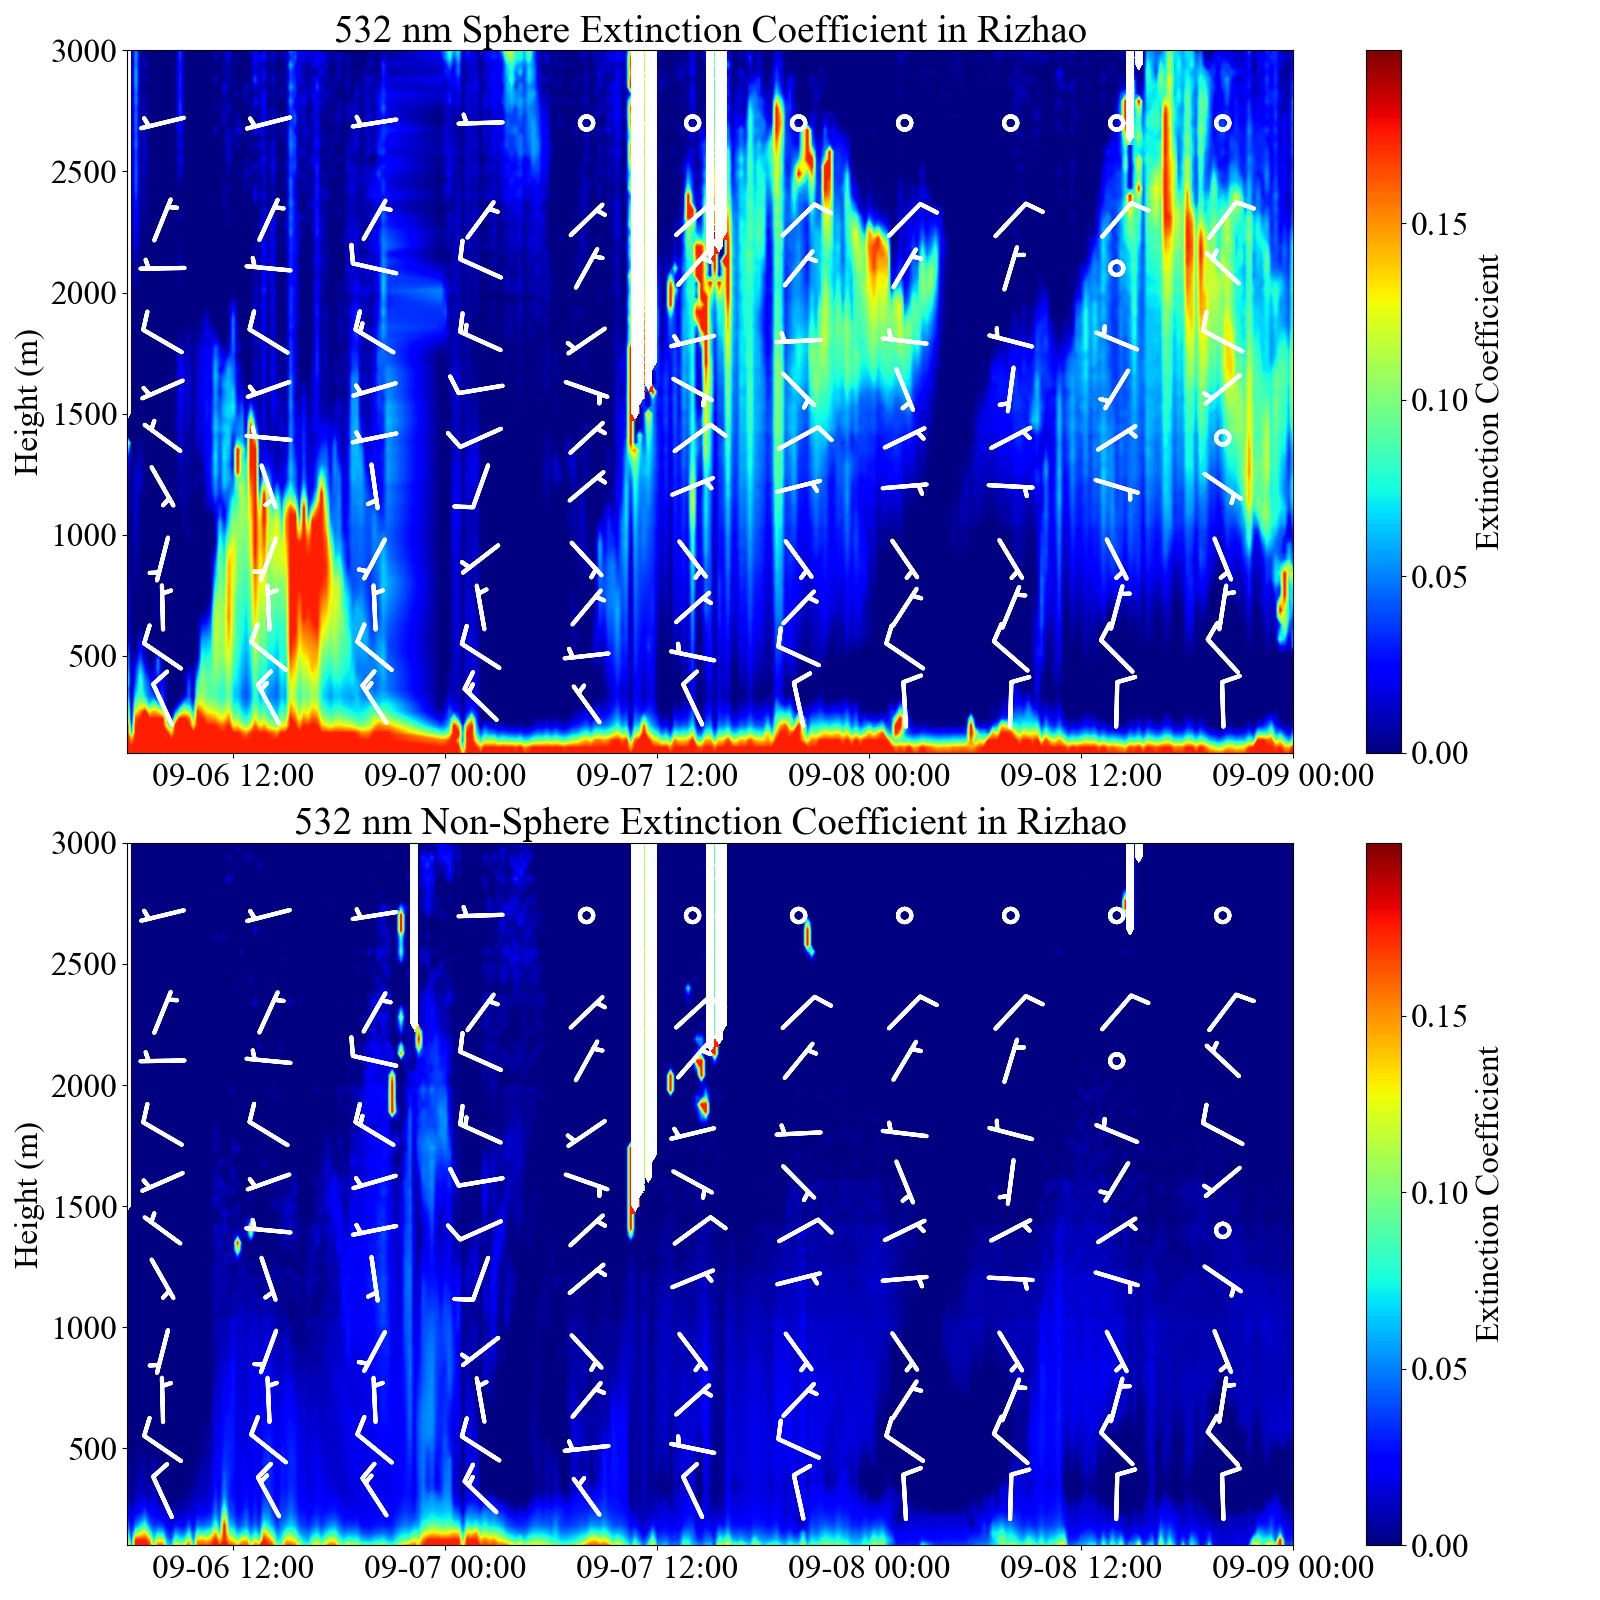
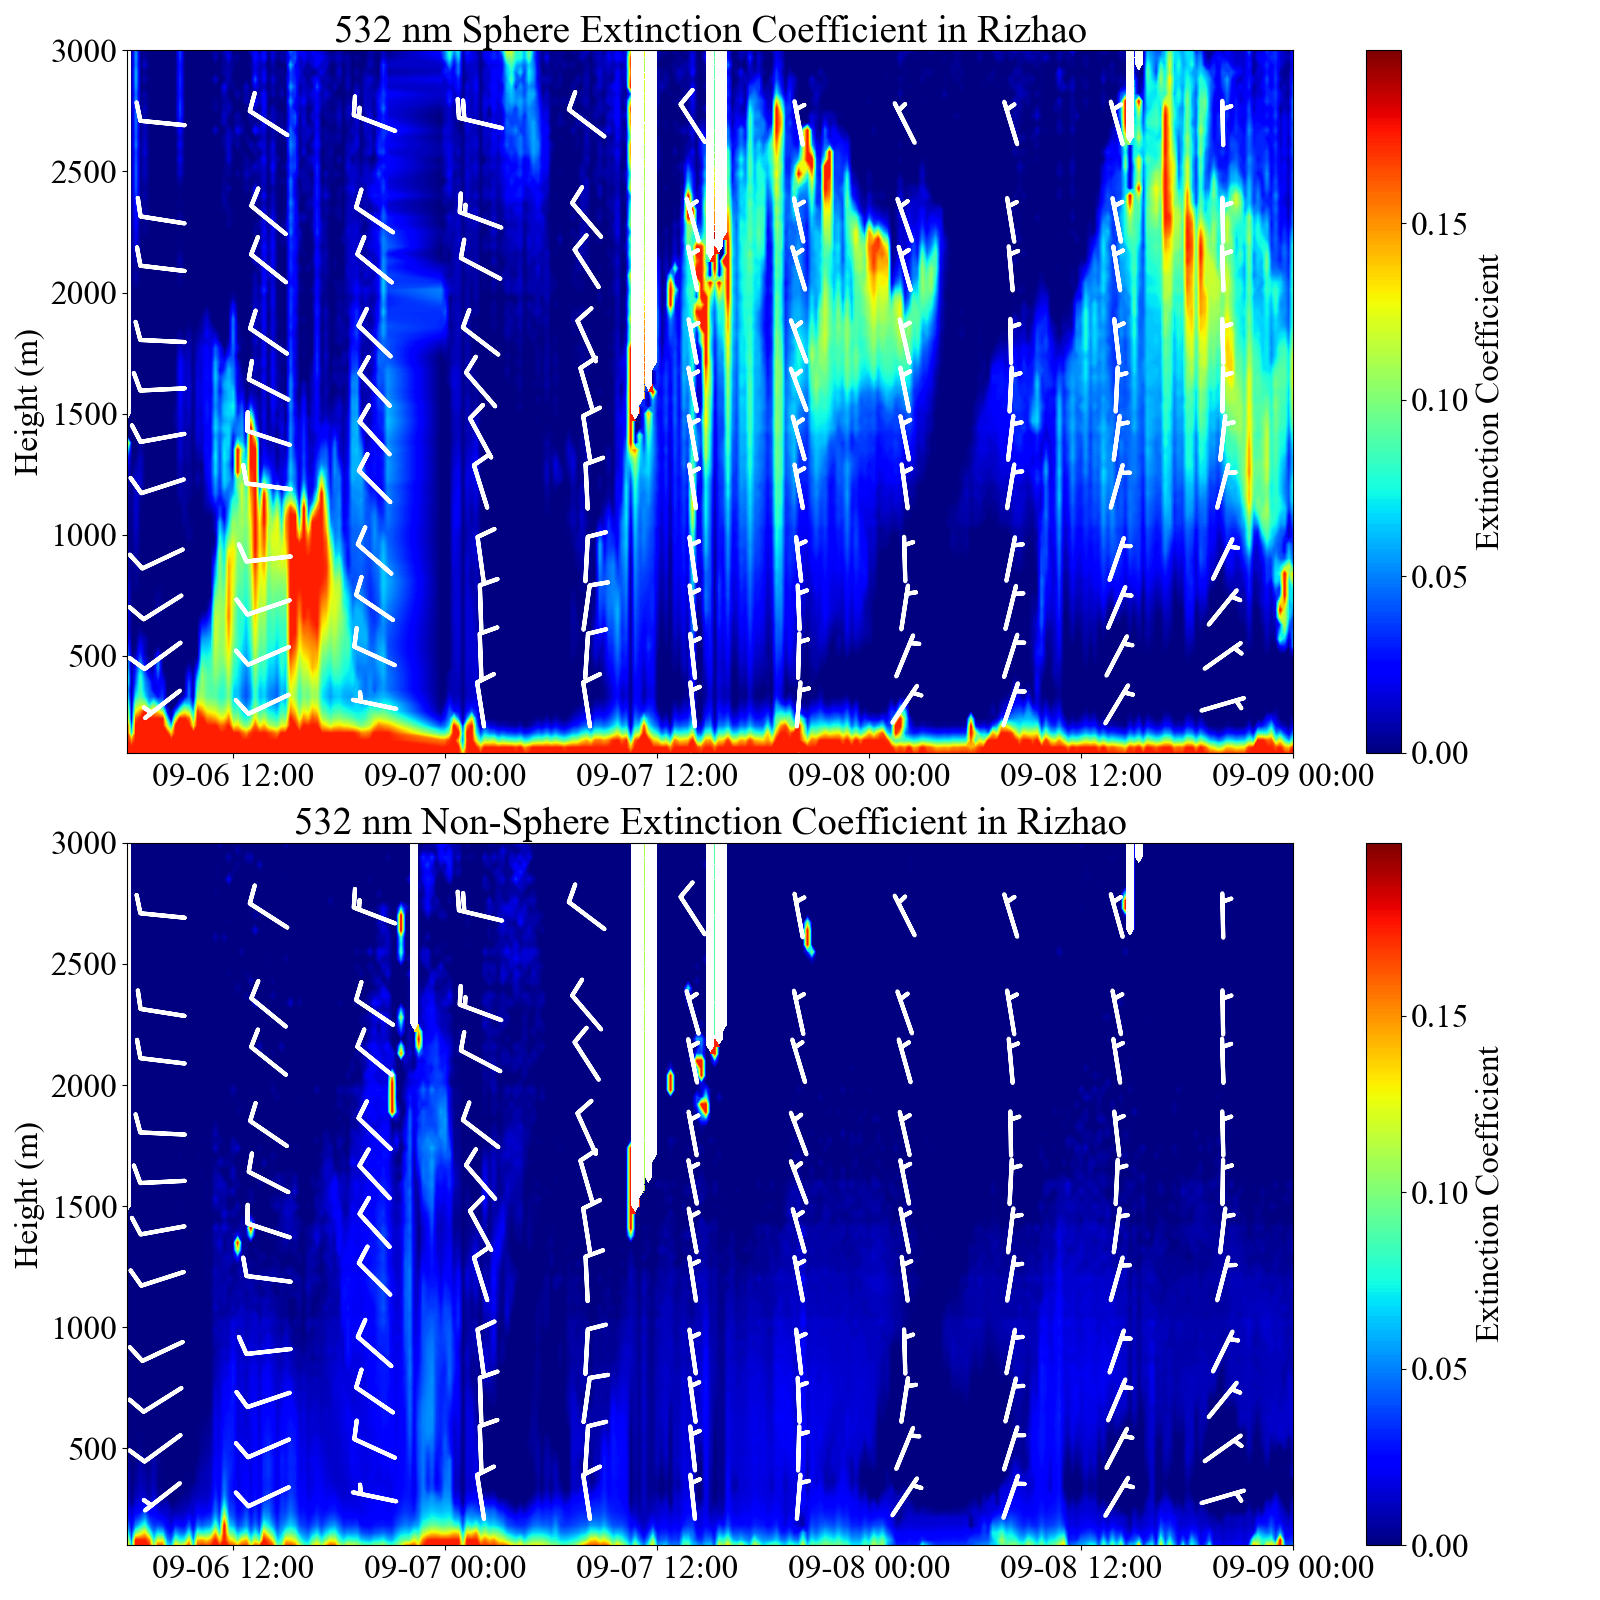
Add files

diff --git a/episodes/Lidar-plot-2018-09-02.py b/episodes/Lidar-plot-2018-09-02.py
@@ -105,6 +105,12 @@ U=pd.DataFrame(pd.read_excel(df, sheet_name=u'U'))
 V=pd.DataFrame(pd.read_excel(df, sheet_name=u'V'))
 TH=pd.DataFrame(pd.read_excel(df, sheet_name=u'TH'))
 
+U1=U.values
+U2=trans(U1)
+
+V1=V.values
+V2=trans(V1)
+
 X2=TH['Time']
 H3=TH['Height']
 X3=[DT(TS(i)) for i in X2]
@@ -166,7 +172,7 @@ minval,maxval=0, 0.5
 #norm = matplotlib.colors.Normalize(vmin=0, vmax=500, clip=False)
 cs = plt.contourf(X,Y,Zdata, np.arange(minval, maxval, 0.001),cmap=plt.cm.get_cmap('jet'))#norm=norm, offset=-2, shrink=.92
 #plt.quiver(X4, Y4, U, V,color='white', width=0.004,scale=150)    
-plt.barbs(X4, Y4, U, V,barbcolor='white', flagcolor='r',linewidth=3, length=8, pivot='middle')      
+plt.barbs(X4, Y4, U2, V2,barbcolor='white', flagcolor='r',linewidth=3, length=8, pivot='middle')      
 dateS=datetime(2018, 9, 2, 9, 00)
 dateE=datetime(2018, 9, 2, 18, 00)
 plt.xlim(dateS, dateE)                                                                                                  
@@ -252,7 +258,7 @@ minval,maxval=0, 0.5
 
 cs = plt.contourf(X,Y,Zdata,np.arange(minval,maxval, 0.001),  cmap=plt.cm.get_cmap('jet'))#norm=norm,shrink=.92,offset=-2,
 #plt.quiver(X4, Y4, U, V,color='white', width=0.004,scale=150)                                                                                                          
-plt.barbs(X4, Y4, U, V,barbcolor='white', flagcolor='r',linewidth=3, length=8, pivot='middle')      
+plt.barbs(X4, Y4, U2, V2,barbcolor='white', flagcolor='r',linewidth=3, length=8, pivot='middle')      
 dateS=datetime(2018, 9, 2, 9, 00)
 dateE=datetime(2018, 9, 2, 18, 00)
 plt.xlim(dateS, dateE)

diff --git a/episodes/Lidar-plot-2018-09-06.py b/episodes/Lidar-plot-2018-09-06.py
@@ -111,6 +111,12 @@ X3=[DT(TS(i)) for i in X2]
 
 X4, Y4= np.meshgrid(X3,H3)
 
+U1=U.values
+U2=trans(U1)
+
+V1=V.values
+V2=trans(V1)
+
 fp='sphere-09-06.txt'
 ft='dust-09-06.txt'
 Ydata=np.loadtxt('Height.txt')#200行*1列 
@@ -166,7 +172,7 @@ minval,maxval=0, 0.2
 #norm = matplotlib.colors.Normalize(vmin=0, vmax=500, clip=False)
 cs = plt.contourf(X,Y,Zdata, np.arange(minval, maxval, 0.001),cmap=plt.cm.get_cmap('jet'))#norm=norm, offset=-2, shrink=.92
 #plt.quiver(X4, Y4, U, V,color='white', width=0.004,scale=150)     
-plt.barbs(X4, Y4, U, V,barbcolor='white', flagcolor='r',linewidth=3, length=8, pivot='middle')      
+plt.barbs(X4, Y4, U2, V2,barbcolor='white', flagcolor='r',linewidth=3, length=8, pivot='middle')      
 dateS=datetime(2018, 9, 6, 6, 00)
 dateE=datetime(2018, 9, 9, 0, 00)
 plt.xlim(dateS, dateE)                                                                                                  
@@ -252,7 +258,7 @@ minval,maxval=0, 0.2
 
 cs = plt.contourf(X,Y,Zdata,np.arange(minval,maxval, 0.001),  cmap=plt.cm.get_cmap('jet'))#norm=norm,shrink=.92,offset=-2,
 #plt.quiver(X4, Y4, U, V,color='white', width=0.004,scale=150)                                                                                                          
-plt.barbs(X4, Y4, U, V,barbcolor='white', flagcolor='r',linewidth=3, length=8, pivot='middle')      
+plt.barbs(X4, Y4, U2, V2,barbcolor='white', flagcolor='r',linewidth=3, length=8, pivot='middle')      
 plt.xlim(dateS, dateE)
 plt.gca()
 plt.gca().xaxis.set_major_formatter(mdates.DateFormatter('%m-%d %H:%M'))  

diff --git a/episodes/Lidar-plot-2018-09-23.py b/episodes/Lidar-plot-2018-09-23.py
@@ -110,6 +110,11 @@ H3=TH['Height']
 X3=[DT(TS(i)) for i in X2]
 
 X4, Y4= np.meshgrid(X3,H3)
+U1=U.values
+U2=trans(U1)
+
+V1=V.values
+V2=trans(V1)
 
 fp='sphere-09-23.txt'
 ft='dust-09-23.txt'
@@ -166,7 +171,7 @@ minval,maxval=0, 0.2
 #norm = matplotlib.colors.Normalize(vmin=0, vmax=500, clip=False)
 cs = plt.contourf(X,Y,Zdata, np.arange(minval, maxval, 0.001),cmap=plt.cm.get_cmap('jet'))#norm=norm, offset=-2, shrink=.92
 #plt.quiver(X4, Y4, U, V,color='white', width=0.004,scale=150)   
-plt.barbs(X4, Y4, U, V,barbcolor='white', flagcolor='r',linewidth=3, length=8, pivot='middle')      
+plt.barbs(X4, Y4, U2, V2,barbcolor='white', flagcolor='r',linewidth=3, length=8, pivot='middle')      
 dateS=datetime(2018, 9, 23, 6, 00)
 dateE=datetime(2018, 9, 24, 18, 00)
 plt.xlim(dateS, dateE)                                                                                                  
@@ -252,7 +257,7 @@ minval,maxval=0, 0.2
 
 cs = plt.contourf(X,Y,Zdata,np.arange(minval,maxval, 0.001),  cmap=plt.cm.get_cmap('jet'))#norm=norm,shrink=.92,offset=-2,
 #plt.quiver(X4, Y4, U, V,color='white', width=0.004,scale=150)                                                                                                          
-plt.barbs(X4, Y4, U, V,barbcolor='white', flagcolor='r',linewidth=3, length=8, pivot='middle')      
+plt.barbs(X4, Y4, U2, V2,barbcolor='white', flagcolor='r',linewidth=3, length=8, pivot='middle')      
 dateS=datetime(2018, 9, 23, 6, 00)
 dateE=datetime(2018, 9, 24, 18, 00)
 plt.xlim(dateS, dateE)
